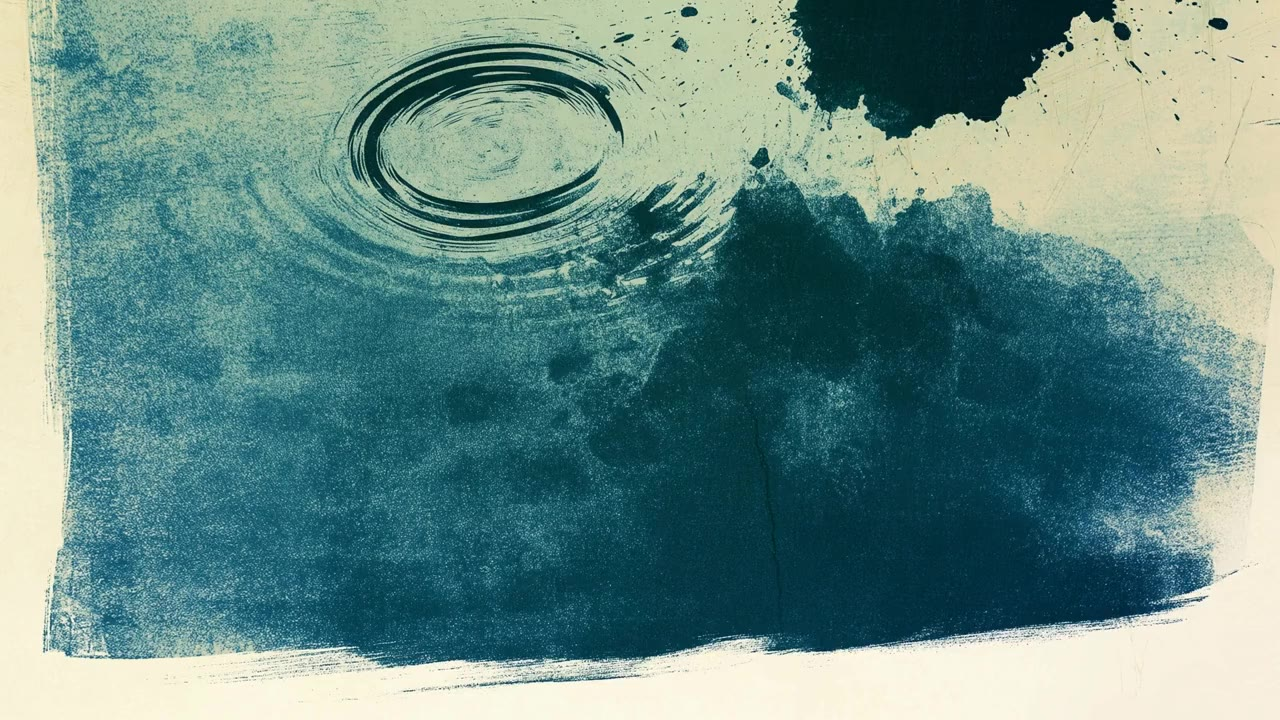
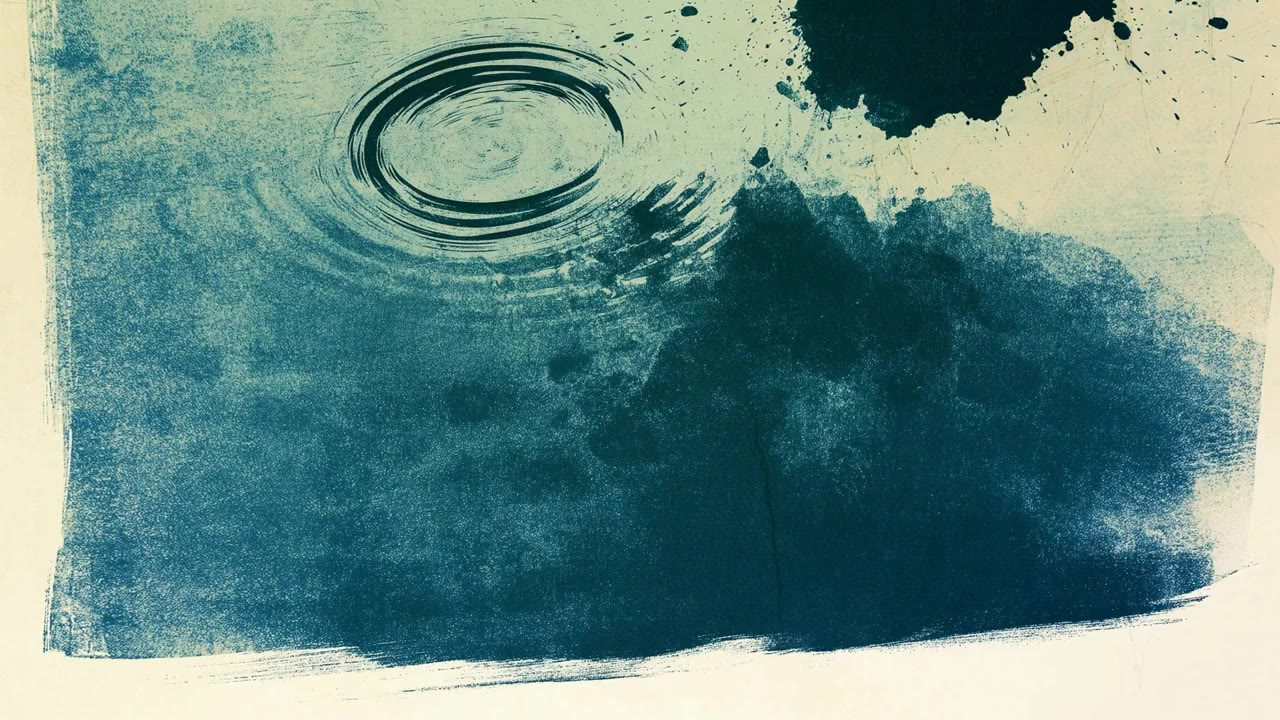
Put the 29-second intro on the homepage.
The last beat now sends people to Exhibits instead of back to the URL they are already on.

diff --git a/index.html b/index.html
@@ -54,37 +54,37 @@
       <section id="watch" class="panel" role="tabpanel" aria-labelledby="tab-watch" data-index="0">
         <div class="panel-inner watch-grid">
           <div>
-            <p class="kicker">Intro · 36 seconds</p>
+            <p class="kicker">Intro · 29 seconds</p>
             <h1>A starting place for using agentic tools well.</h1>
             <div class="video-frame">
               <video
                 id="intro"
-                src="/intro.mp4"
-                poster="/intro-poster.jpg"
+                src="/intro.mp4?v=6"
+                poster="/intro-poster.jpg?v=6"
                 controls
                 preload="metadata"
                 playsinline
                 width="1280"
                 height="720">
-                <track kind="captions" src="/intro.vtt" srclang="en" label="English" />
+                <track kind="captions" src="/intro.vtt?v=6" srclang="en" label="English" />
                 Your browser can download the intro instead:
-                <a href="/intro.mp4">intro.mp4</a>
+                <a href="/intro.mp4?v=6">intro.mp4</a>
               </video>
             </div>
           </div>
           <div>
             <div class="actions">
               <button type="button" class="btn btn-primary" data-copy-link>Copy link</button>
-              <a class="btn btn-ghost" href="/intro.mp4" download="grokaiapps-intro.mp4">Download</a>
+              <a class="btn btn-ghost" href="/intro.mp4?v=6" download="grokaiapps-intro.mp4">Download</a>
               <button type="button" class="btn btn-text" id="share-btn" hidden>Share</button>
             </div>
             <section class="transcript" aria-labelledby="tr-h">
               <h2 id="tr-h">Transcript</h2>
               <div class="transcript-body">
                 <p>Software can go do the job now. The hard part is understanding it while it does.</p>
-                <p>I’m Grok AI Apps. This is a getting-started. Watch, then try what’s on the site.</p>
+                <p>I’m Grok. AI. Apps. I make small tools with AI, and I put them here so you can actually try them.</p>
                 <p>Grok means understand so thoroughly it changes how you move. Leave with a next step, not a pile of tabs.</p>
-                <p>Next step: go to grokaiapps.com and open Start. I’ll put short demos and walkthroughs there, one at a time, so you can actually try them.</p>
+                <p>Open Exhibits and try one. That’s the next step.</p>
               </div>
             </section>
           </div>
@@ -206,7 +206,7 @@
       <div class="dialog-actions">
         <button type="button" class="btn btn-primary" id="share-native" hidden>Share…</button>
         <button type="button" class="btn btn-ghost" data-copy-link>Copy link</button>
-        <a class="btn btn-ghost" href="/intro.mp4" download="grokaiapps-intro.mp4">Download</a>
+        <a class="btn btn-ghost" href="/intro.mp4?v=6" download="grokaiapps-intro.mp4">Download</a>
       </div>
     </div>
 
